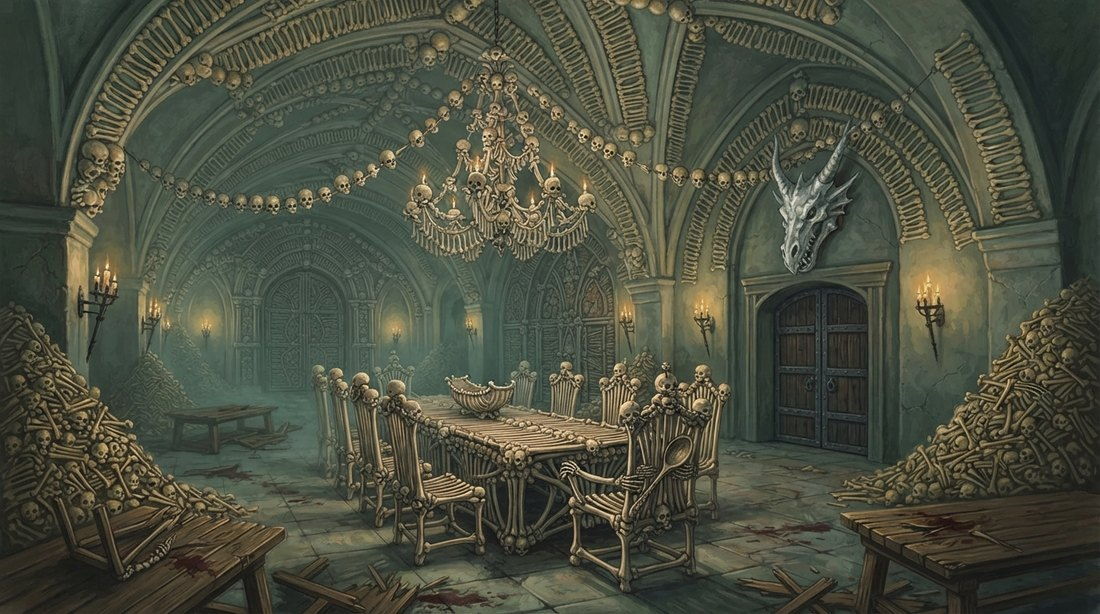
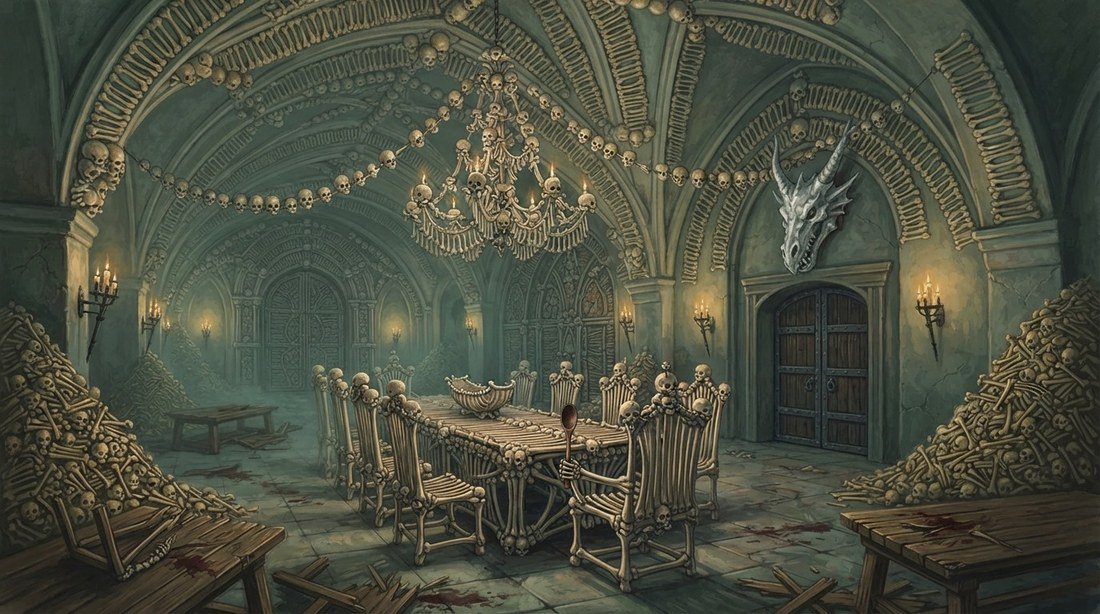
Hall of Bones picture: ordinary wooden spoon in a chair's bony hand (#112)
* Hall of Bones picture: an ordinary wooden spoon in a chair's bony hand

Chris: a regular-sized wooden spoon should be in a skeletal hand that is part of
the chair. Region edit pasted back into version A; rest of the picture unchanged.

Claude-Session: https://claude.ai/code/session_01U8i5qVJGV1gJ4XGQEHKUt5

* Hall of Bones: smaller dark wooden spoon held upright in the chair's bony fist

Chris: the first edit's spoon was comically large and lay along the forearm.

Claude-Session: https://claude.ai/code/session_01U8i5qVJGV1gJ4XGQEHKUt5

---------

diff --git a/content/wiki/hall-of-bones.md b/content/wiki/hall-of-bones.md
@@ -9,7 +9,7 @@ source: Compiled from the adventure log
 
 ## Description
 
-![The Hall of Bones: Argynvost's silver skull over the steel-banded double doors in the side wall, a long table of bones with ten bone chairs, and mounds of bones in the corners](/images/hall-of-bones-ai.jpg)
+![The Hall of Bones: Argynvost's silver skull over the steel-banded double doors in the side wall, a long table of bones with ten bone chairs, mounds of bones in the corners, and a wooden cooking spoon held upright in the bony fist of one chair](/images/hall-of-bones-ai.jpg)
 
 *AI-generated image (Google Gemini, November 2026), drawn from this page and the session logs. Not official art.*
 
